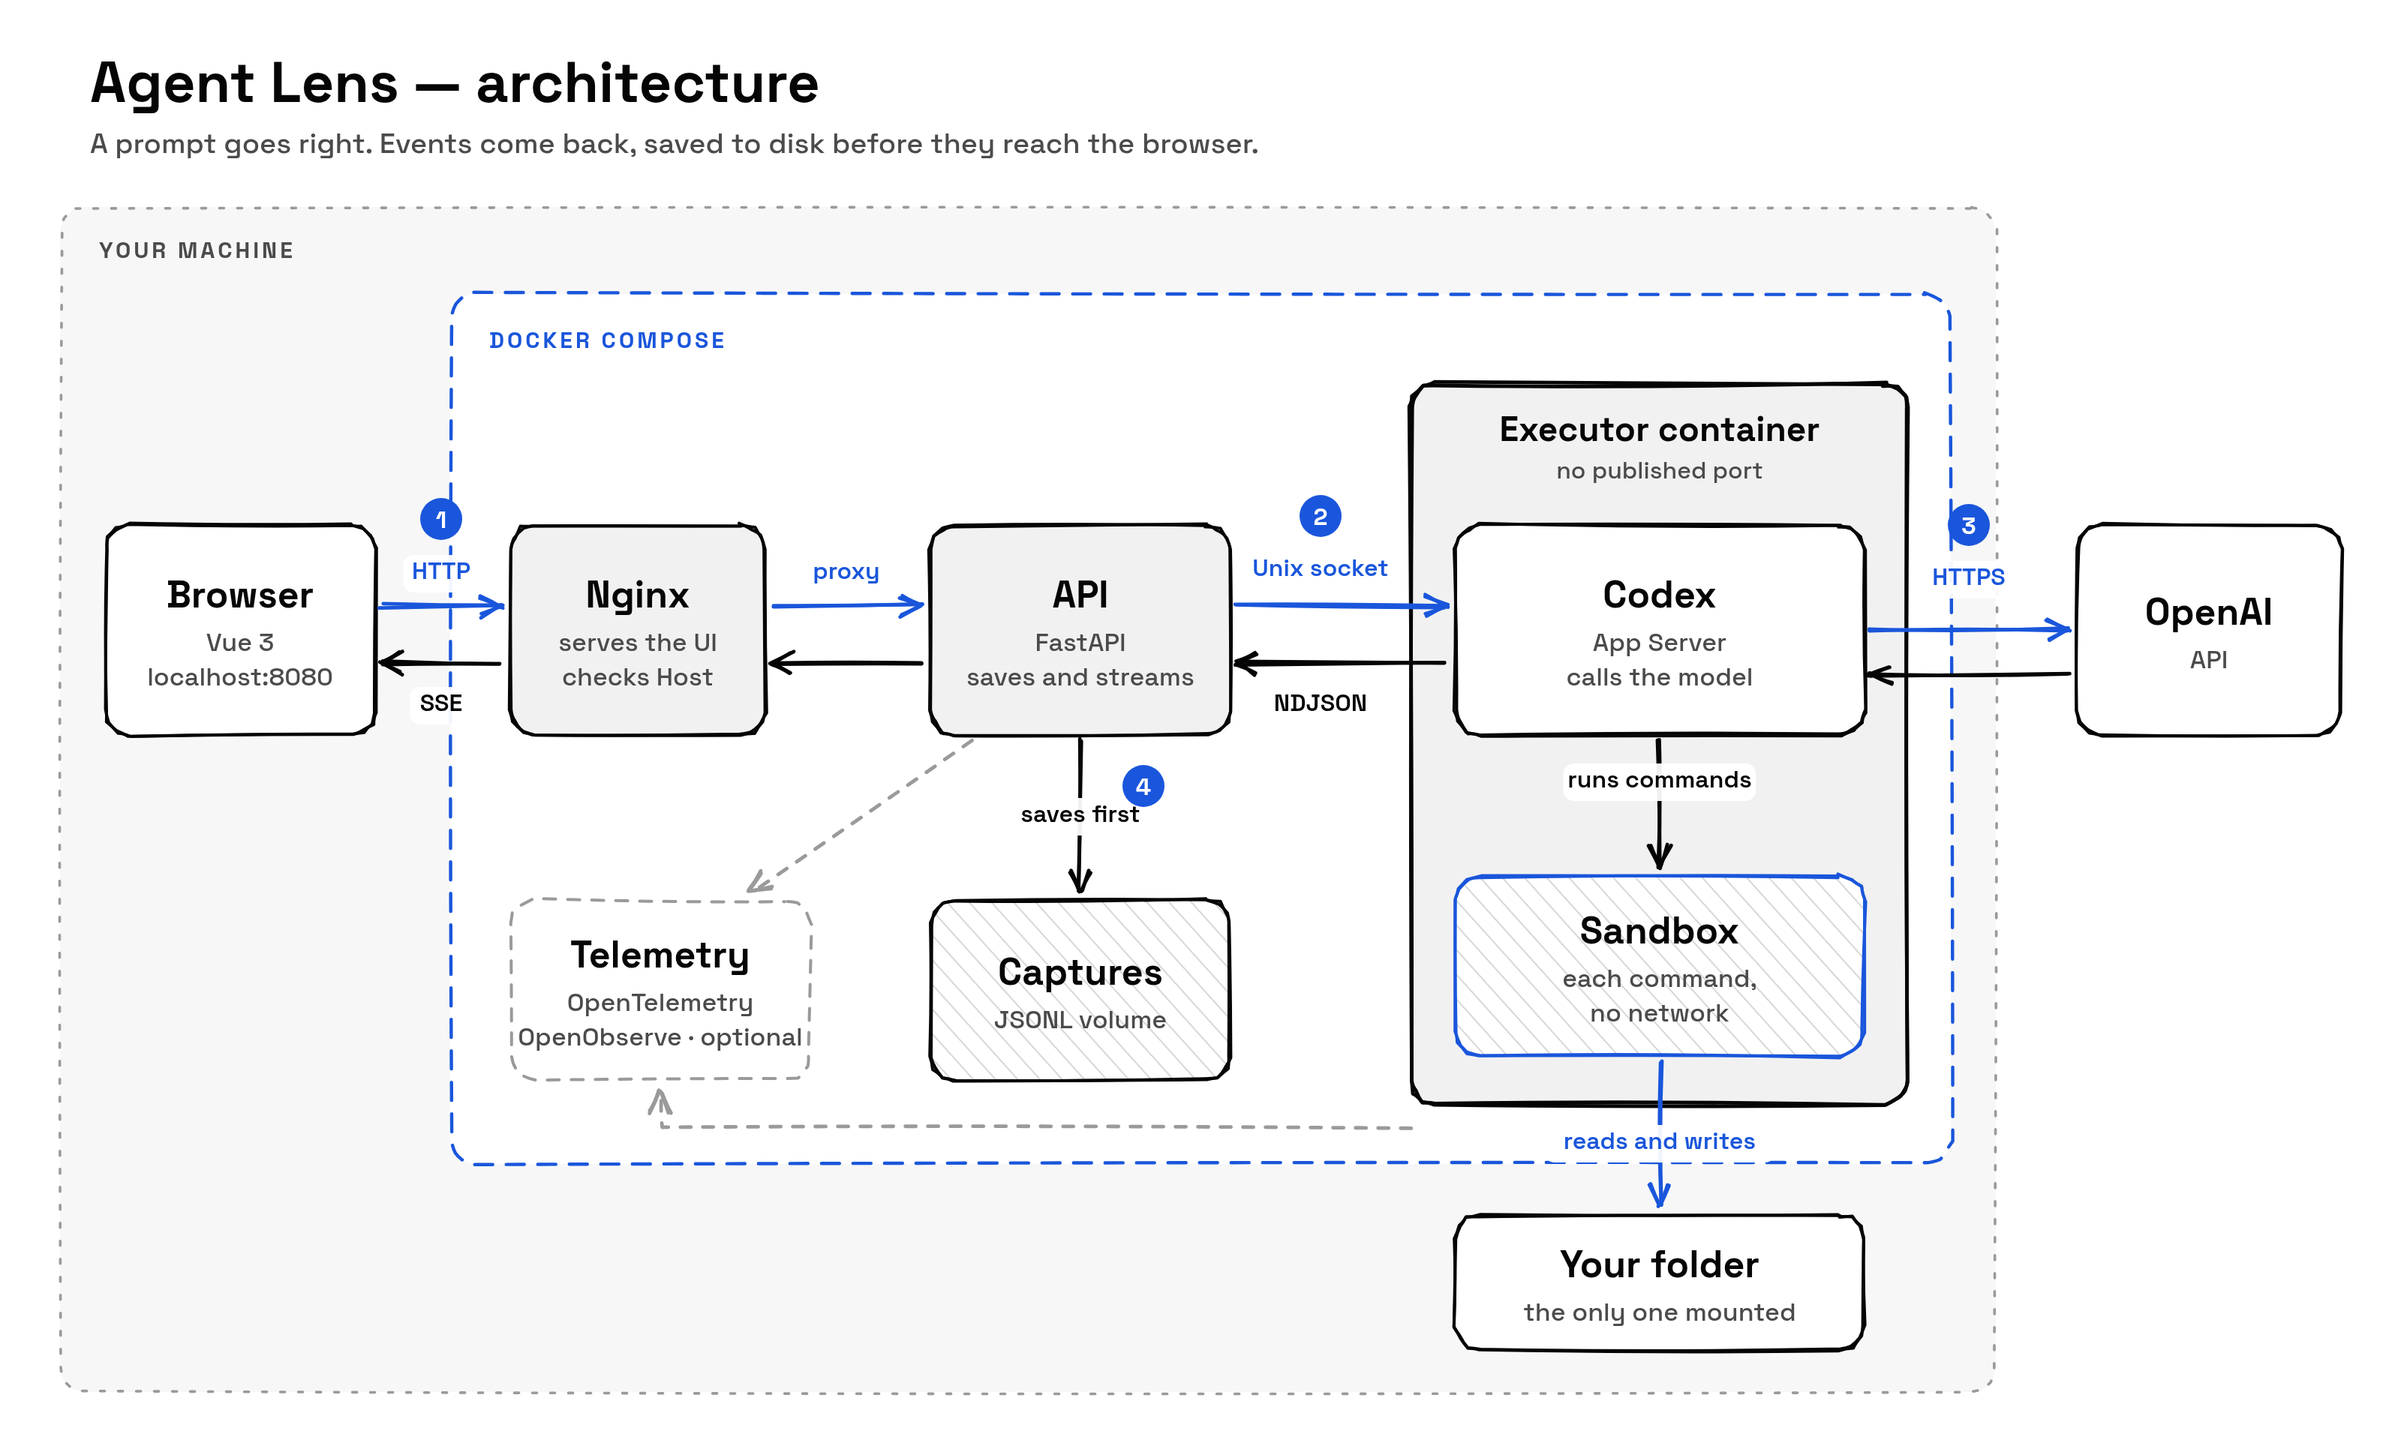
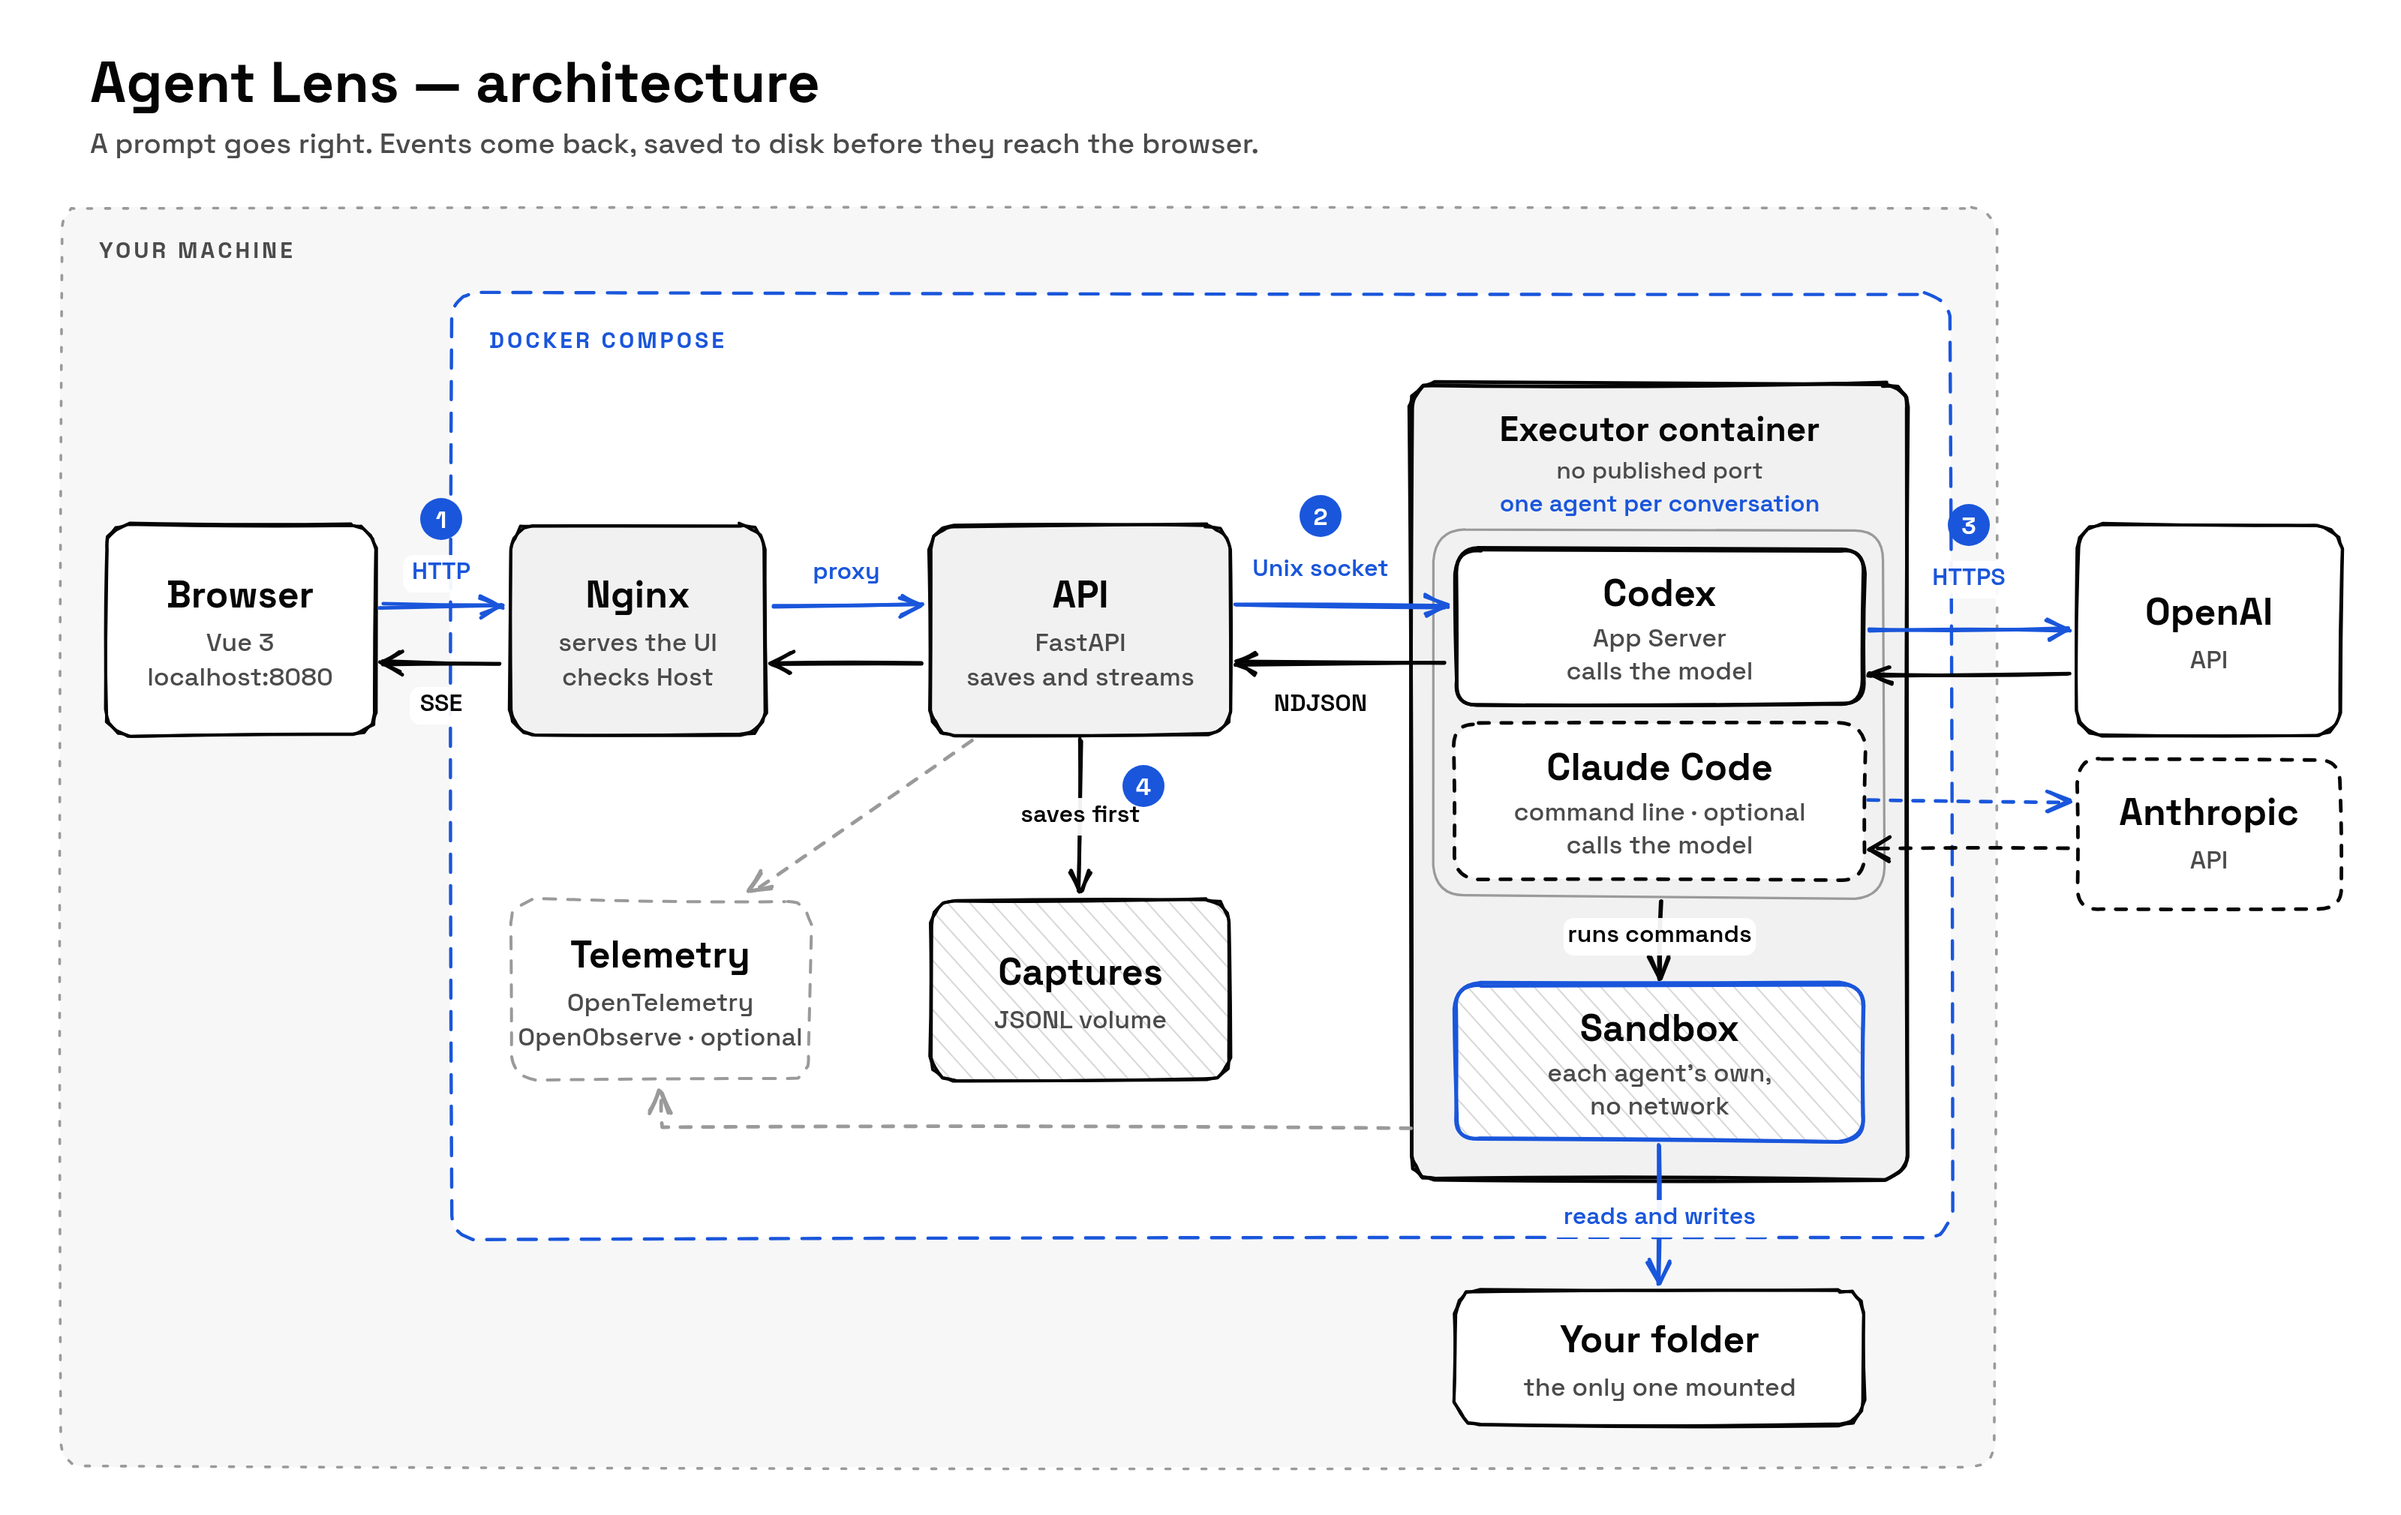
docs: show both agents in the README
The animation compares the same prompt in Codex and Claude Code, with a
caption on why their failure counts differ. The diagram and the text now
cover both agents, and state that the Claude Code setup with an API key
has not been run against the model yet.

diff --git a/README.md b/README.md
@@ -3,15 +3,17 @@
 [![CI](https://github.com/patrickadeelino/agents-lens/actions/workflows/ci.yml/badge.svg)](https://github.com/patrickadeelino/agents-lens/actions/workflows/ci.yml)
 ![Backend coverage](https://img.shields.io/endpoint?url=https://raw.githubusercontent.com/patrickadeelino/agents-lens/badges/coverage.json)
 
-Agent Lens is a local web interface for watching a coding agent work. Choose a folder, send a prompt and follow what Codex does as it happens: messages, shell commands, file changes, failures and subagents.
+Agent Lens is a local web interface for watching a coding agent work. Choose a folder, send a prompt and follow what the agent does as it happens: messages, shell commands, file changes, failures and subagents. It runs [Codex](#run-it-with-codex) and, experimentally, [Claude Code](#claude-code-experimental).
 
-![A live run: choosing a folder, sending a prompt and following the trajectory as Codex runs the tests, changes a file and asks a subagent to review it.](docs/images/live-run.gif)
+![The same prompt in Codex, on the left, and in Claude Code, on the right: each runs the tests, changes a file and asks a subagent to review it, while the interface follows the trajectory.](docs/images/live-run.gif)
+
+<sub>Same prompt and project, one run each, recorded separately and shown at real speed. Failure counts follow what each command reported: Claude Code piped its failing test run through `tail`, so that command counts as completed. A demonstration, not a benchmark.</sub>
 
 - **Live trajectory** of each turn, with command output and exit codes.
 - **Failures and unconfirmed results** kept visible, separate from the turn's own outcome.
 - **Subagents** shown as branches of the turn that started them.
-- **Reconnection** to a running turn, and follow-up prompts in the same Codex thread.
-- **Token usage** reported by Codex and **durations** measured locally.
+- **Reconnection** to a running turn, and follow-up prompts in the same agent session.
+- **Token usage** reported by the agent and **durations** measured locally. For Claude Code, the count covers the main agent, not its subagents.
 
 ## Try it without an API key
 
@@ -72,21 +74,21 @@ CLAUDE_CODE_API_KEY=your-anthropic-api-key
 
 A selector then appears on the new-conversation screen, and each conversation keeps its agent. Set `AGENT_LENS_CLAUDE_MODEL` to change the model. The image downloads the official Claude Code **2.1.327** binary, unmodified, and checks its SHA-256, even when Claude Code is off.
 
-Claude Code has been tested here with recorded runs and with the real command line against a local stand-in for its API, **not yet with the model through this app**. Its commands run in Claude Code's sandbox in the nested mode that containers require, which is weaker than the default: they see the executor's process list and can read the container's system files. The keys, the executor's data and the other folders of your workspace are denied. Claude Code creates a `.claude` folder in the folder you choose.
+Claude Code has been tested here with recorded runs, with the real command line against a local stand-in for its API and with a few turns of the model through this app. **The setup with an Anthropic API key described above has not been run against the model yet.** Its commands run in Claude Code's sandbox in the nested mode that containers require, which is weaker than the default: they see the executor's process list and can read the container's system files. The keys, the executor's data and the other folders of your workspace are denied. Claude Code creates a `.claude` folder in the folder you choose.
 
 ## Architecture
 
-![Architecture: the browser reaches Nginx and the API inside Docker Compose. The API talks over a Unix socket to the executor container, where Codex App Server calls the OpenAI API and runs sandboxed commands on the one mounted folder. The API saves events to a captures volume before streaming them. Telemetry is optional.](docs/images/architecture.png)
+![Architecture: the browser reaches Nginx and the API inside Docker Compose. The API talks over a Unix socket to the executor container. There each conversation uses one agent: Codex App Server, which calls the OpenAI API, or optionally the Claude Code command line, which calls the Anthropic API. Each runs commands in its own sandbox, without network, on the one mounted folder. The API saves events to a captures volume before streaming them. Telemetry is optional.](docs/images/architecture.png)
 
 | Part | Responsibility | Boundary |
 |---|---|---|
 | Browser | Builds the trajectory from the events | Starts a conversation with a folder selection ID, not a host path |
 | Nginx | Serves the interface and proxies the API | Refuses unknown `Host` names |
 | API | Saves each capture and streams it | Has neither the API key nor the mounted folder |
-| Executor | Drives Codex and validates the folder | Publishes no port |
-| Codex | Calls the model and runs commands | Commands get no network |
+| Executor | Drives the agent and validates the folder | Publishes no port |
+| Codex or Claude Code | Calls the model and runs commands | Commands get no network |
 
-A turn runs like this: the browser sends the prompt, the API creates a capture and calls the executor, and the executor starts or resumes a Codex thread. Each event is written and flushed to disk **before** it is sent to the browser.
+A turn runs like this: the browser sends the prompt, the API creates a capture and calls the executor, and the executor starts or resumes the agent's session. Each event is written and flushed to disk **before** it is sent to the browser.
 
 ## Engineering notes
 
@@ -119,7 +121,7 @@ The main choices, with their alternatives and costs:
 ## Security and limitations
 
 - The interface listens on loopback, accepts only the `localhost` and `127.0.0.1` host names and **has no authentication**. Do not expose it to a network.
-- Codex runs each command in its own sandbox: no network, and access limited to the chosen folder and basic system paths.
+- Codex runs each command in its own sandbox: no network, and access limited to the chosen folder and basic system paths. Claude Code's sandbox is [configured differently](#claude-code-experimental): its commands can read more of the container's files, including the application's code.
 - The **executor container runs with AppArmor and seccomp disabled**. It has no Linux capabilities, cannot gain privileges and runs as a regular user, but it is less isolated from your machine than a default container.
 - The API key is passed to the executor as a Compose secret and masked if it appears in an event. A `.env` file keeps it in plain text on disk.
 - Prompts, command output and captures are stored unencrypted. Review them before sharing screenshots or recordings.
@@ -127,7 +129,7 @@ The main choices, with their alternatives and costs:
 - A turn interrupted by an API restart is marked as unconfirmed when the API starts again, and the conversation can be continued unless it was its first turn. This assumes a single API process.
 - A turn fails if the executor sends nothing for 120 seconds.
 - An event larger than 8 MiB ends the capture, keeping what was already saved.
-- Tested on Linux x86_64 with kernel 5.15, Codex **0.171.0** and `gpt-6.2-sol`. macOS, Windows and ARM have not been tested. On Ubuntu 23.10 or later, the host may restrict the user namespaces the sandbox needs.
+- Tested on Linux x86_64 with kernel 5.15, Codex **0.171.0** with `gpt-6.2-sol` and Claude Code **2.1.327** with `claude-sonnet-5-5`. macOS, Windows and ARM have not been tested. On Ubuntu 23.10 or later, the host may restrict the user namespaces the sandbox needs.
 
 Set `AGENT_LENS_MODEL` to use another model. The [optional observability setup](observability/README.md) adds logs and traces.
 
@@ -135,7 +137,7 @@ Set `AGENT_LENS_MODEL` to use another model. The [optional observability setup](
 
 Only needed to change the code. To run Agent Lens you need Docker, plus an API key for live runs.
 
-The API code has two services under [`apps/api-lens/src`](apps/api-lens/src): `backend` (HTTP API, saved captures and history) and `executor` (Codex process and folders). They meet only through `shared`. Tests keep these [boundaries](apps/api-lens/tests/architecture/test_layers.py) and a limit of [30 lines per function](apps/api-lens/tests/architecture/test_function_size.py), and Ruff allows two nested blocks at most.
+The API code has two services under [`apps/api-lens/src`](apps/api-lens/src): `backend` (HTTP API, saved captures and history) and `executor` (agent processes and folders). They meet only through `shared`. Tests keep these [boundaries](apps/api-lens/tests/architecture/test_layers.py) and a limit of [30 lines per function](apps/api-lens/tests/architecture/test_function_size.py), and Ruff allows two nested blocks at most.
 
 <details>
 <summary>Lint, type checks, tests and build</summary>

diff --git a/docs/decisions/0005-claude-code-as-a-second-agent.md b/docs/decisions/0005-claude-code-as-a-second-agent.md
@@ -64,7 +64,7 @@ Translation is tested with three recorded runs of the real model.
 - The keys are separated by each agent's sandbox rather than by containers. The nested mode is weaker than the default: commands see the executor's process list and can read the container's system files, including the application's code.
 - The executor image includes Claude Code, about 370 MB, even when it is off. Turning it on takes two lines in `.env`.
 - Claude Code creates a `.claude` folder in the chosen folder.
-- **Not tested yet:** the model through this app, background shell commands, parallel subagents, the sandbox in a resumed turn, the Codex sandbox against the second key, and ARM.
+- **Not tested yet:** the model through this app with an API key, background shell commands, parallel subagents, the sandbox in a resumed turn, the Codex sandbox against the second key, and ARM.
 
 ## Related code
 
